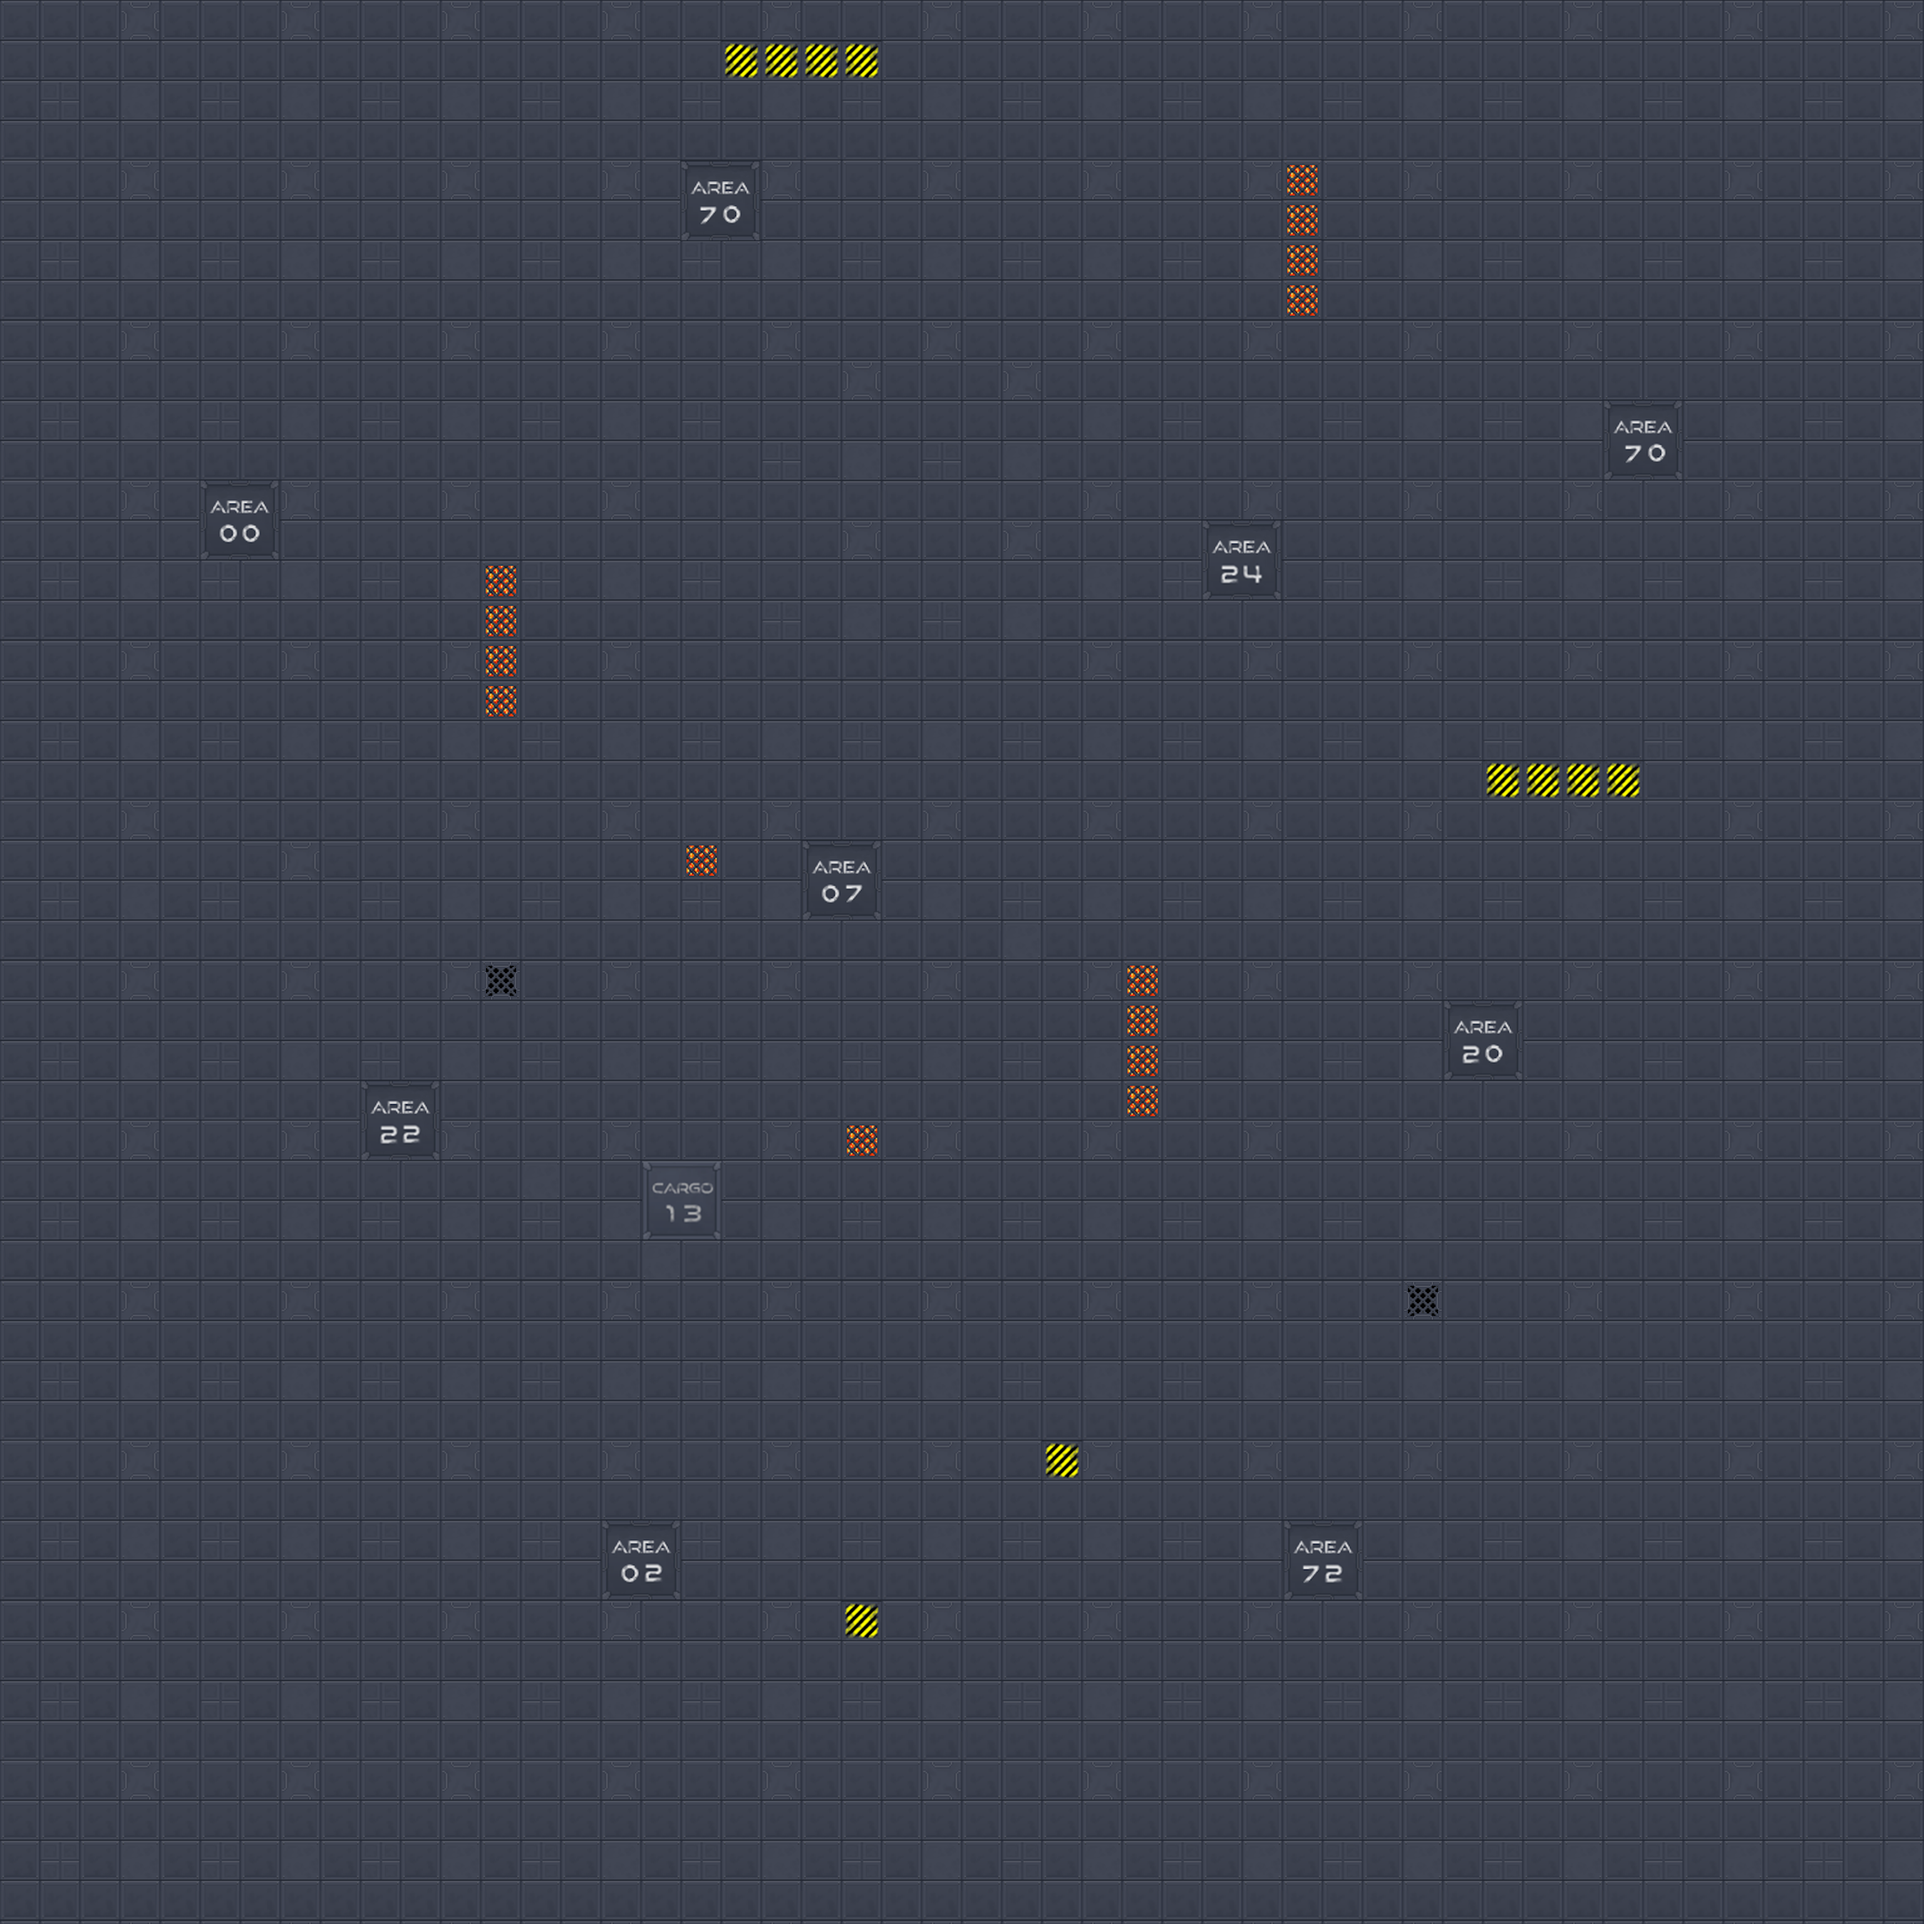
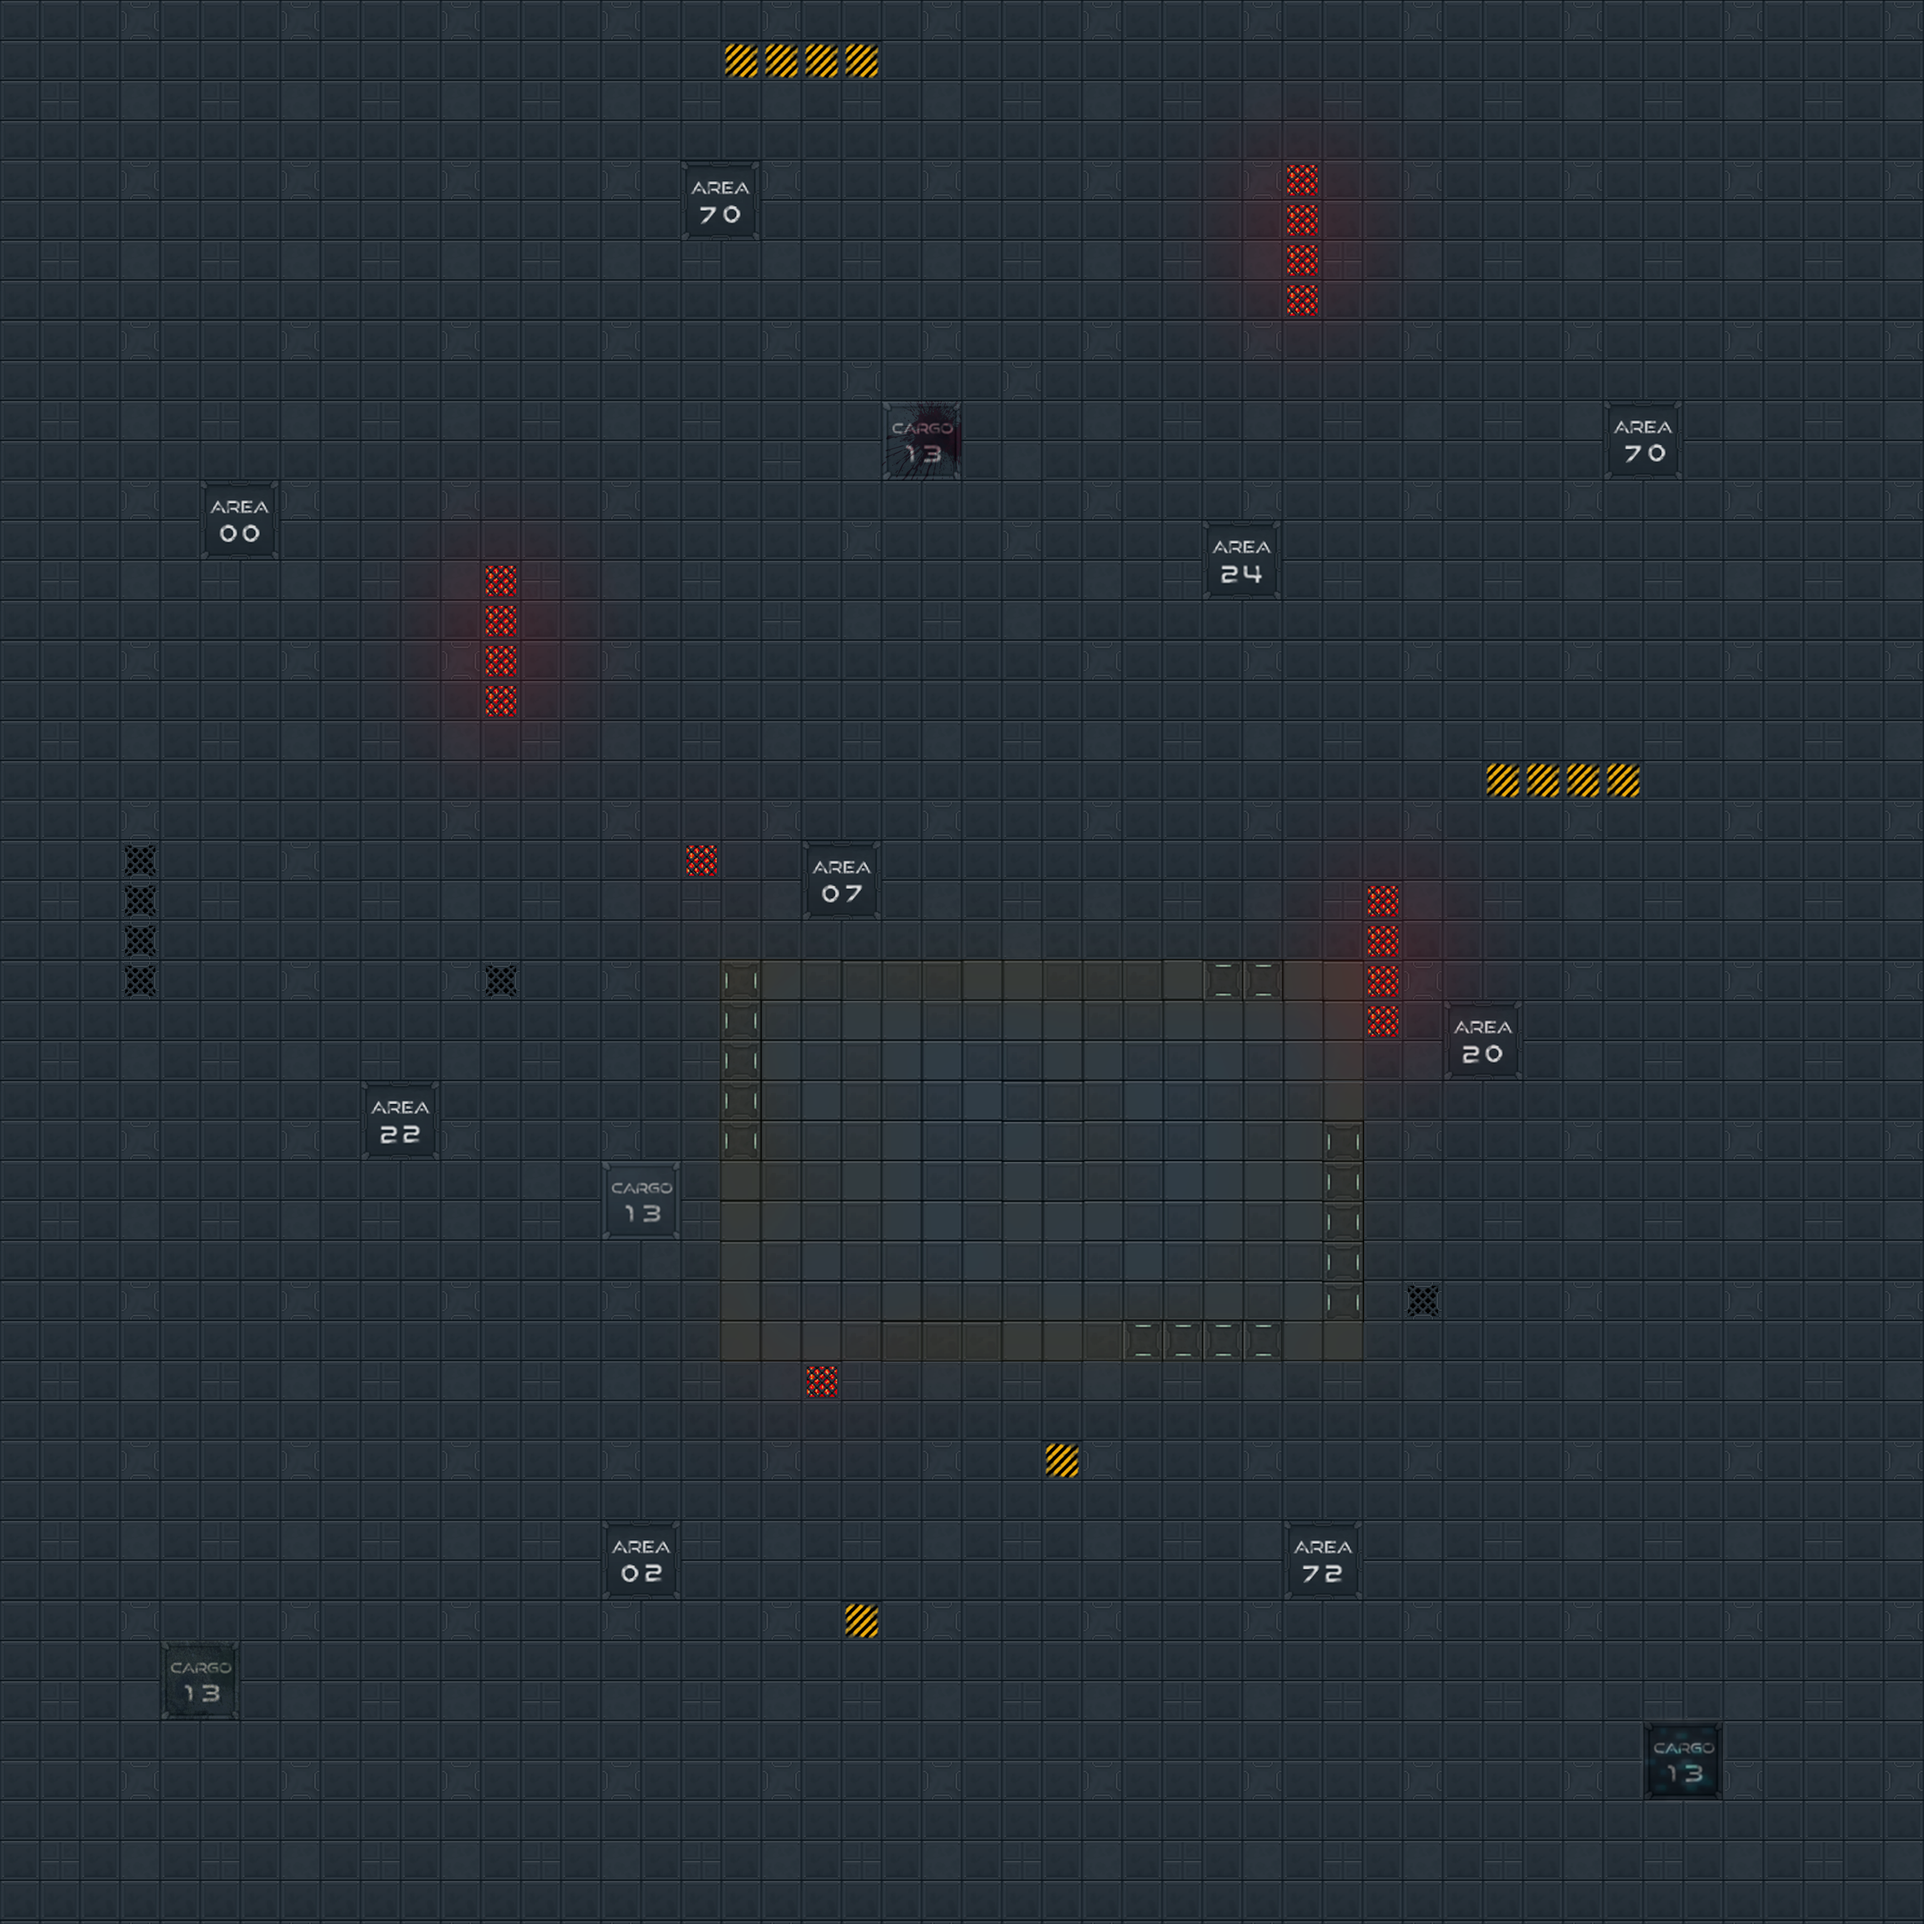
Update component images and modify placement zones for improved layout; replace existing zones with a new main zone configuration.

diff --git a/src/systems/placementZones.ts b/src/systems/placementZones.ts
@@ -28,11 +28,7 @@ function zone(
 export const SHOW_PLACEMENT_ZONES = true
 
 export const PLACEMENT_ZONES: PlacementZone[] = [
-  zone('pz-crossroads', 42, 42, 10, 10),
-  zone('pz-north', 42, 19, 10, 8),
-  zone('pz-east', 63, 42, 10, 10),
-  zone('pz-south', 42, 62, 10, 8),
-  zone('pz-west', 19, 42, 10, 10),
+  zone('pz-main', 36, 48, 32, 20),
 ]
 
 export function isInsidePlacementZone(
